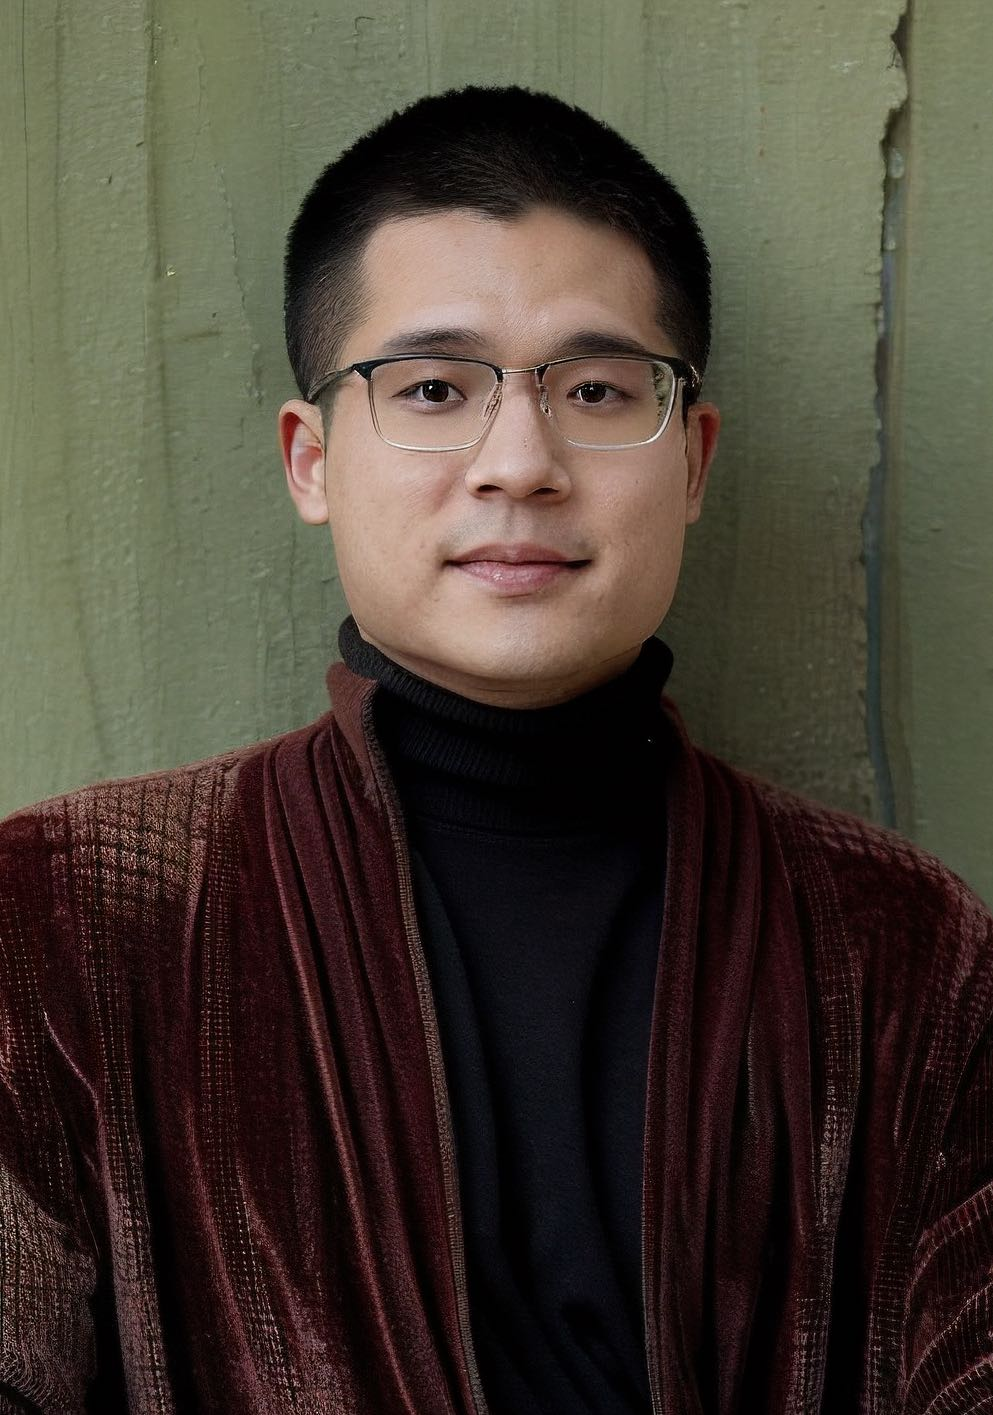
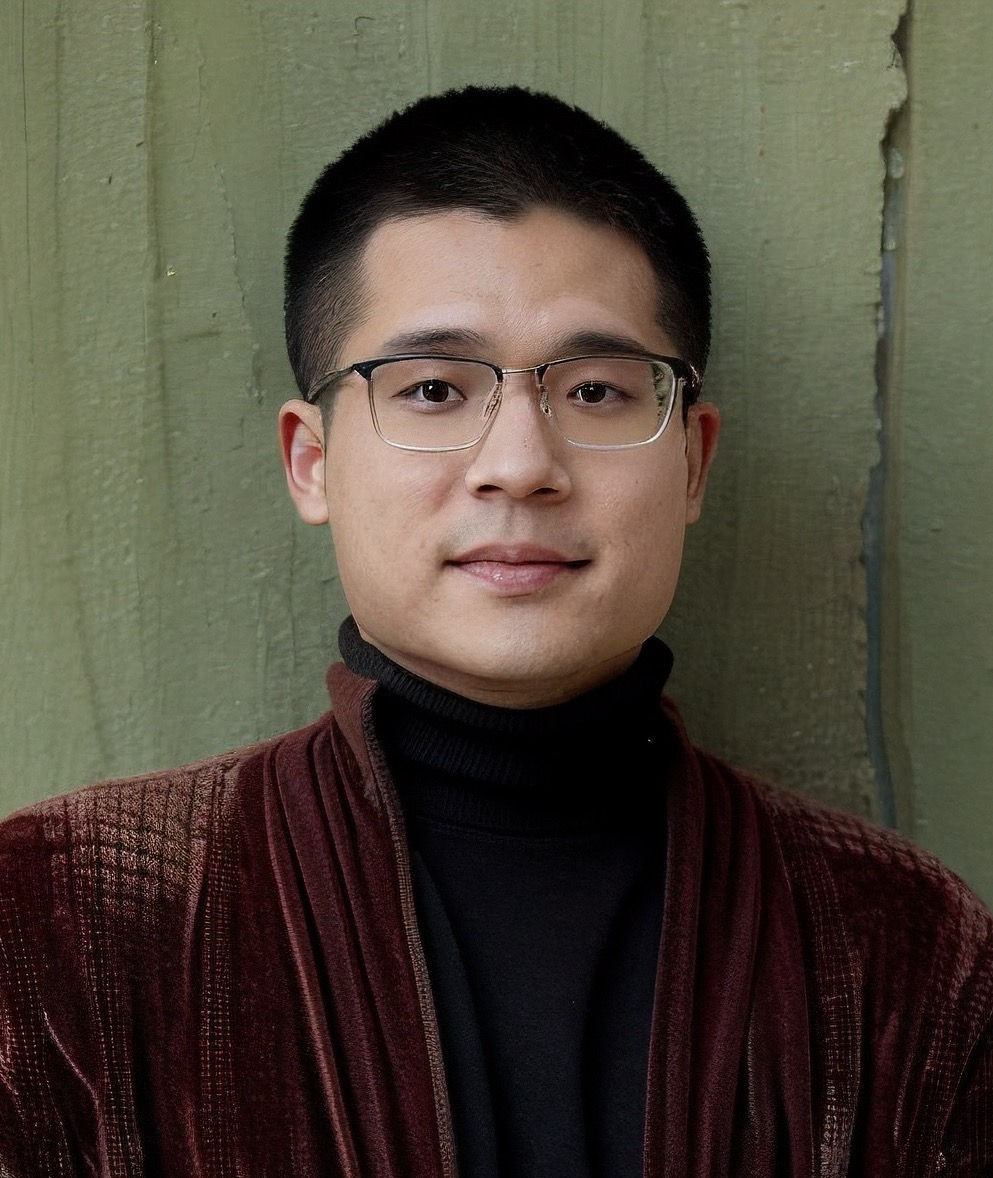
Update image

diff --git a/index.html b/index.html
@@ -25,7 +25,7 @@
                 I worked with <a href="http://www.tongzhang-ml.org/">  Prof. Tong Zhang</a> at HKUST in Summer 2019.
             </td>
             <td style="padding:2.5%;width:40%;max-width:40%">
-              <a href="images/img_230729.jpg"><img style="width:100%;max-width:100%" alt="profile photo" src="images/img_230729.jpg" class="hoverZoomLink"></a>
+              <a href="images/image_202512.jpg"><img style="width:100%;max-width:100%" alt="profile photo" src="images/image_202512.jpg" class="hoverZoomLink"></a>
             </td>
           </tr>
         </tbody></table>
